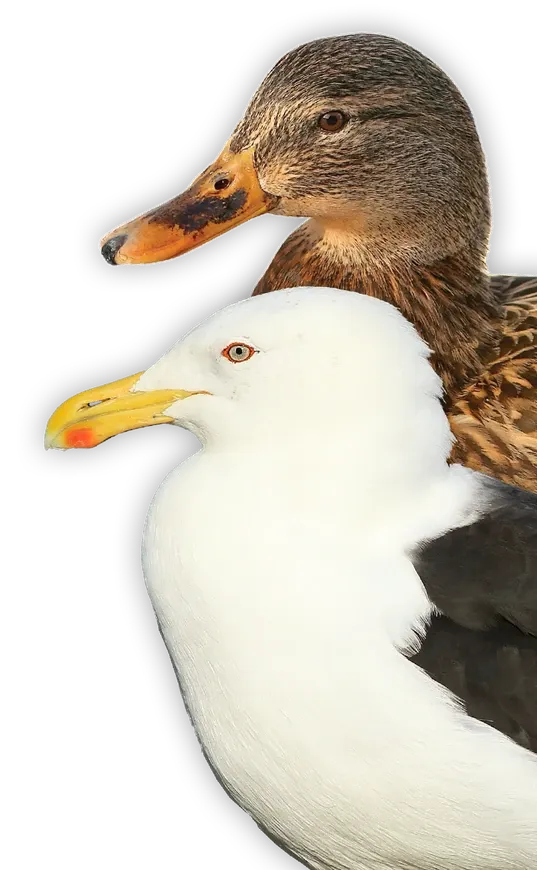
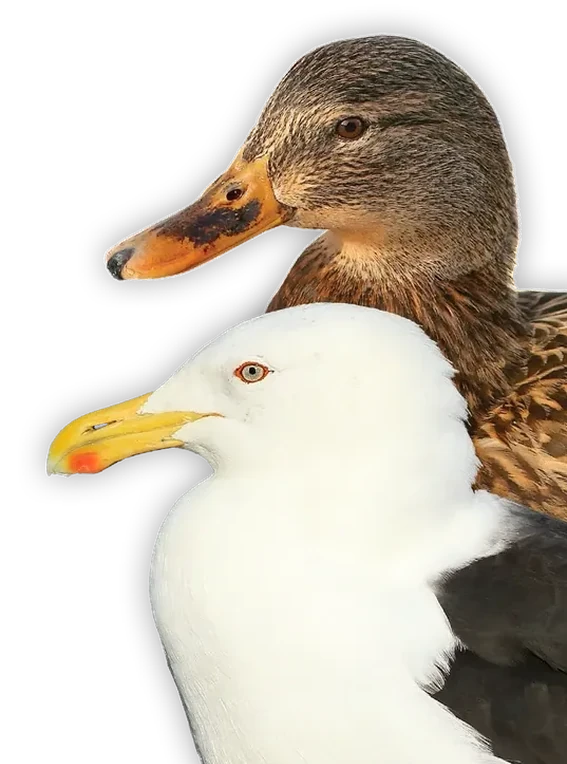
Match layout to client's native 320x480 PDF ("Detected" export)
The client has since provided an actual 320x480 InDesign export for
this ad. Replaced the proportionally-adapted layout (derived from the
300x600 version) with positions measured directly from that PDF:
headline, per-frame text, end card, and stripe all repositioned/resized
to match exactly. The ducks/gull photo was re-cropped (cover-fit, top-
anchored) from the same source asset to match the new framing shown in
the reference, since its aspect ratio differs from the previous crop.

diff --git a/index.html b/index.html
@@ -56,7 +56,7 @@
     top: 0;
     left: 0;
     width: 320px;
-    height: 16px;
+    height: 16.67px;
     z-index: 5;
   }
   .stripe-wrap img {
@@ -64,18 +64,18 @@
     top: 0;
     left: 0;
     width: 320px;
-    height: 16px;
+    height: 16.67px;
   }
 
-  /* --- element placement --- */
-  .birds     { left: 176.8px;  top: 248px;    width: 143.2px;  height: 231.98px; }
-  .headline  { left: 12.45px;  top: 145.6px;  width: 216.5px;  height: 91.08px; transform-origin: left center; }
-  .text2     { left: 15.29px;  top: 146.67px; width: 199.5px;  height: 75.73px; }
-  .text3     { left: 14.58px;  top: 146.67px; width: 198.2px;  height: 124.54px; }
-  .text4     { left: 15.29px;  top: 146.67px; width: 161.1px;  height: 93.6px; }
-  .card      { left: 55.11px;  top: 134.68px; width: 157.3px;  height: 152.78px; }
-  .cta       { left: 74.31px;  top: 288.26px; width: 128.55px; height: 24.26px; }
-  .govtnz    { left: 203.73px; top: 436.8px;  width: 72.8px;   height: 27.2px; }
+  /* --- element placement (measured directly from the client's 320x480 "Detected" PDF) --- */
+  .birds     { left: 131px;    top: 225.33px; width: 189px;    height: 254.67px; }
+  .headline  { left: 20.33px;  top: 95.33px;  width: 278.67px; height: 110.33px; transform-origin: left center; }
+  .text2     { left: 35.33px;  top: 174.67px; width: 243.67px; height: 100.33px; }
+  .text3     { left: 35px;     top: 174.67px; width: 236.33px; height: 145px; }
+  .text4     { left: 35.33px;  top: 174.67px; width: 190.67px; height: 106px; }
+  .card      { left: 81.67px;  top: 143px;    width: 156.67px; height: 158.33px; }
+  .cta       { left: 81.33px;  top: 316.67px; width: 157.33px; height: 27.33px; }
+  .govtnz    { left: 210.33px; top: 430.33px; width: 90.67px;  height: 33.33px; }
 
   /* --- keyframes ---
      transform only: opacity is handled separately below by a plain transition, so
